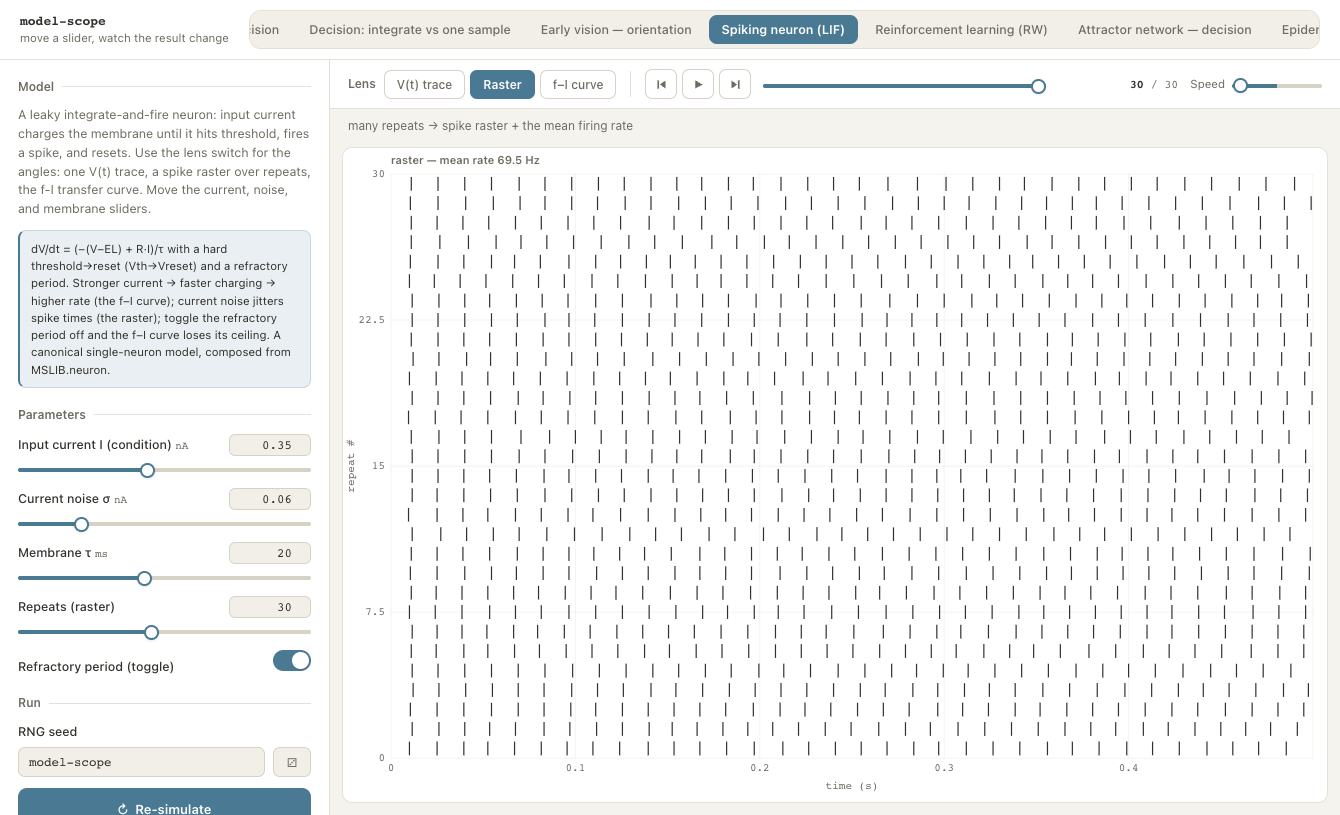
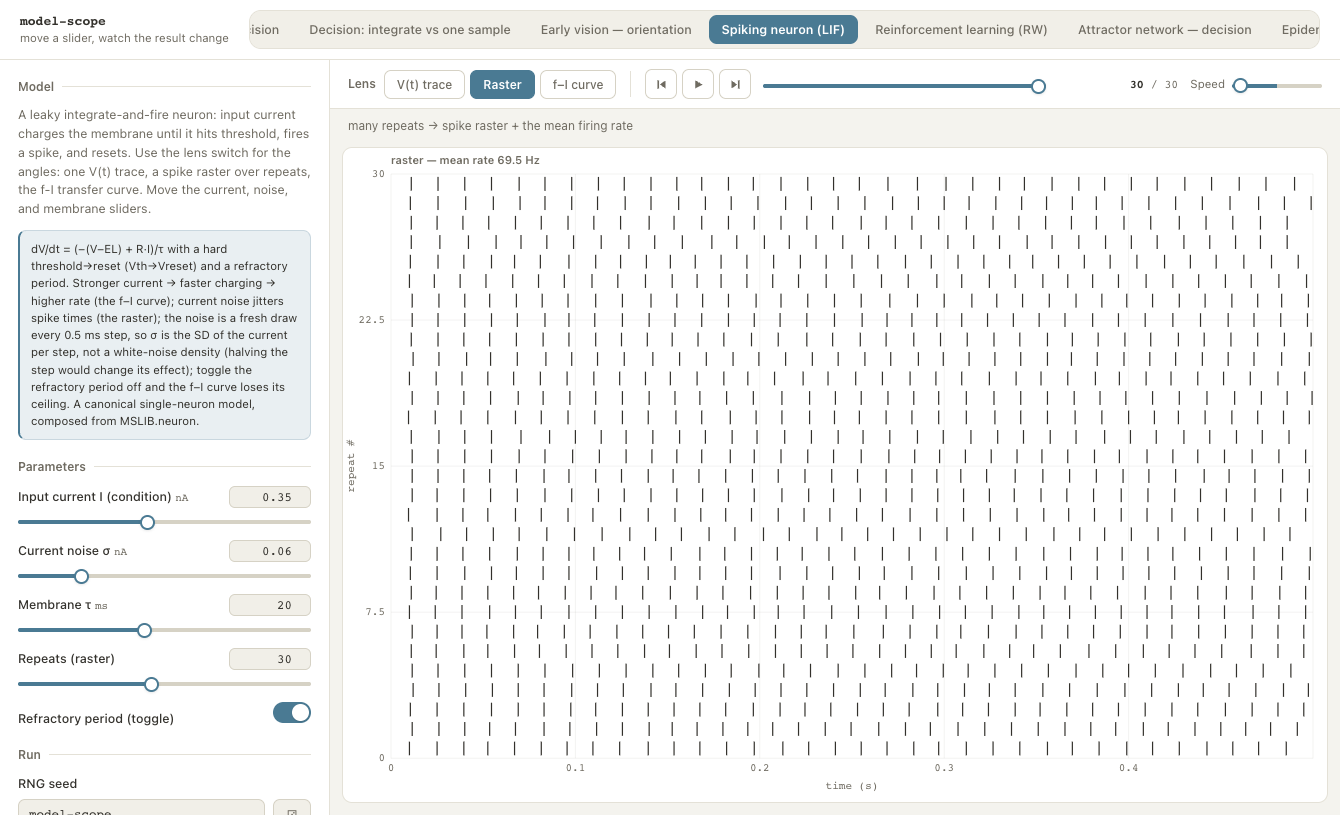
fix(examples): eight statements and one drawing that contradict the code
Round 1 review (R1-4, Neon N1-N8). Text only, except the attention map:
- attractor: dark = slow near a fixed point (the saddle is the darkest point)
- POMDP: Compare sweeps the penalty; worse listening does not widen the
  listen region (92% -> 86% of beliefs, a 0.85 -> 0.55, at defaults)
- causal: the visual-bias curve is N-shaped only when sigma_V ~ sigma_A
  (expected bias at defaults is monotone, 40k-draw Monte Carlo)
- compare: the single-sample frontier rises with T, it is not flat
- retina: DoG sums to ~0 only near surround 1; the RMS sweep shows coarse
  contrast removed (band-pass), not edge sharpening
- kuramoto: the marked K_c is the noise-free value
- SIR: Curve is the total over the line, not a well-mixed population
- LIF: f-I curve is noise-free; noise is drawn per 0.5 ms step
- attention: query i is now drawn in row i, matching the y ticks (it was
  drawn upside down); simulate() unchanged

Draw baseline re-recorded with --write-draw: exactly 8 streams changed
(causal v0/v3 end, compare v0, retina compare/v0, attention structure/v0);
schema and the 183 simulate digests are unchanged. Gallery PNGs regenerated
with tests/shots.mjs. Docs: README, template README, levels.md, tests/README
(baseline draws are default-parameters only, R1-2), CHANGELOG.

Changed region(s): [[0.0, 0.3681, 0.2448, 1.0]]

diff --git a/skills/model-scope/assets/template/examples.js b/skills/model-scope/assets/template/examples.js
@@ -211,7 +211,7 @@
         {key:'lik',     name:'Hypothesis likelihoods', about:'How well does ONE common cause explain the pair vs TWO separate causes? Compute p(x|C=1) and p(x|C=2).'},
         {key:'postC',   name:'Causal posterior',       about:'Bayes with the prior p_common gives p(C=1|x) — the belief the senses share a cause.'},
         {key:'branch',  name:'Branch estimates',       about:'Fused estimate (assume common) vs segregated estimates (assume separate), each reliability-weighted with the prior.'},
-        {key:'combine', name:'Combine',                about:'Blend the branches by p(C=1) (or Select / Match). The N-shaped bias vs disparity is the signature.'},
+        {key:'combine', name:'Combine',                about:'Blend the branches by p(C=1) (or Select / Match). The bias vs disparity is N-shaped (fusion, then release) when the senses are comparably reliable; with σᵥ ≪ σₐ vision barely moves.'},
       ],
       views:[
         { title:'Process pipeline', draw:(g,d,ui)=> g.flow(ui.stages, ui.stage) },
@@ -235,7 +235,7 @@
         }},
         { title:'Estimates & bias', draw:(g,d,ui)=>{ const T=TH();
           if(ui.stage>=4){ let mn=0,mx=0; for(const b of d.biasV){ mn=Math.min(mn,b[1]); mx=Math.max(mx,b[1]); } const pad=(mx-mn)*0.15||1;
-            g.frame({x:[-20,20],y:[mn-pad,mx+pad],xlabel:'disparity sᵥ−sₐ',ylabel:'visual bias',title:'N-shaped bias (ventriloquism)'});
+            g.frame({x:[-20,20],y:[mn-pad,mx+pad],xlabel:'disparity sᵥ−sₐ',ylabel:'visual bias',title:'visual bias vs disparity (N-shaped when σᵥ ≈ σₐ)'});
             g.hline(0,{color:T.faint,dash:[3,3]}); g.line(d.biasV,{color:T.pos,width:2});
           } else { g.frame({x:[-18,18],y:[0,1],xlabel:'spatial position',title:'estimates on the spatial axis'});
             g.vline(d.xv,{color:T.accent,label:'xᵥ'}); g.vline(d.xa,{color:T.neg,label:'xₐ'});
@@ -398,7 +398,7 @@
     compare: {
       id:'compare', name:'Decision: integrate vs one sample',
       blurb:'Two 2-alternative strategies with the SAME signal (drift A) and noise c — toggle between them: a drift-diffusion model INTEGRATES evidence to a bound ±z (variable time), or a single-sample observer takes ONE noisy reading over a fixed time T and reports its sign. Panel 1 overlays their speed-accuracy frontiers, panel 2 maps the chosen metric over the (drift, noise) plane, panel 3 compares accuracy, speed, and reward at the operating point, panel 4 shows the mechanism.',
-      note:'Same A, c — only the mechanism differs. DDM: accuracy 1/(1+e^(−2Az/c²)), mean decision time (z/A)·tanh(Az/c²) — raising the bound z buys accuracy but costs time, so reward rate is NON-monotonic in z. Single-sample: a FIXED accuracy Φ(A√T/c) and a flat tradeoff (it can only trade by observing longer). Integration dominates when the signal is strong; they converge at low noise. The toggle re-skins panels 2 and 3; the Metric selector swaps the surface in panel 2. (Bogacz et al. 2006; Gold & Shadlen 2007.)',
+      note:'Same A, c — only the mechanism differs. DDM: accuracy 1/(1+e^(−2Az/c²)), mean decision time (z/A)·tanh(Az/c²) — raising the bound z buys accuracy but costs time, so reward rate is NON-monotonic in z. Single-sample: accuracy Φ(A√T/c) is fixed once T is chosen; it has no bound to trade with and can only trade by observing longer (its curve sweeps T). Integration dominates when the signal is strong; they converge at low noise. The toggle re-skins panels 2 and 3; the Metric selector swaps the surface in panel 2. (Bogacz et al. 2006; Gold & Shadlen 2007.)',
       params:[
         {name:'A', label:'Drift A (signal)', min:0, max:3, step:0.01, default:1.0},
         {name:'c', label:'Noise c', min:0.2, max:2.5, step:0.01, default:1.0},
@@ -425,7 +425,7 @@
         return { accD, dtD, accS, dtS, rrD, rrS, satDDM, satSS, tMax, grid, NX, NY, Amin, Amax, cmin, cmax, gmin, gmax, metric:p.metric, metricName, useDDM:p.useDDM, A:p.A, c:p.c, z:p.z, T:p.T, Ter:p.Ter }; },
       views:[
         { title:'speed–accuracy: integrate-to-bound vs one sample', draw:(g,d)=>{ const T=TH();
-          g.frame({x:[0,d.tMax], y:[0.46,1.02], xlabel:'time to decision (s)', ylabel:'accuracy', title:'DDM trades time for accuracy along the bound; one sample is flat'});
+          g.frame({x:[0,d.tMax], y:[0.46,1.02], xlabel:'time to decision (s)', ylabel:'accuracy', title:'DDM trades time for accuracy along the bound; one sample only by observing longer'});
           g.hline(1,{color:'rgba(80,75,65,.28)',dash:[2,3],label:'ceiling'}); g.hline(0.5,{color:'rgba(80,75,65,.3)',dash:[4,3],label:'chance'});
           const clip=a=>a.map(q=>[q[0],Math.max(0.5,Math.min(1,q[1]))]);
           g.line(clip(d.satDDM),{color:T.accent,width:d.useDDM?2.6:1.3,dash:d.useDDM?null:[4,3]});
@@ -529,7 +529,7 @@
     lif: {
       id:'lif', name:'Spiking neuron (LIF)',
       blurb:'A leaky integrate-and-fire neuron: input current charges the membrane until it hits threshold, fires a spike, and resets. Use the lens switch for the angles: one V(t) trace, a spike raster over repeats, the f-I transfer curve. Move the current, noise, and membrane sliders.',
-      note:'dV/dt = (−(V−EL) + R·I)/τ with a hard threshold→reset (Vth→Vreset) and a refractory period. Stronger current → faster charging → higher rate (the f–I curve); current noise jitters spike times (the raster); toggle the refractory period off and the f–I curve loses its ceiling. A canonical single-neuron model, composed from MSLIB.neuron.',
+      note:'dV/dt = (−(V−EL) + R·I)/τ with a hard threshold→reset (Vth→Vreset) and a refractory period. Stronger current → faster charging → higher rate (the f–I curve); current noise jitters spike times (the raster); the noise is a fresh draw every 0.5 ms step, so σ is the SD of the current per step, not a white-noise density (halving the step would change its effect); toggle the refractory period off and the f–I curve loses its ceiling. A canonical single-neuron model, composed from MSLIB.neuron.',
       params:[
         {name:'I', label:'Input current I (condition)', min:0, max:0.8, step:0.005, default:0.35, unit:'nA'},
         {name:'sigma', label:'Current noise σ', min:0, max:0.3, step:0.005, default:0.06, unit:'nA'},
@@ -560,7 +560,7 @@
             g.frame({x:[0,d.T], y:[0,d.reps], xlabel:'time (s)', ylabel:'repeat #', title:`raster — mean rate ${d.rate.toFixed(1)} Hz`});
             g.raster(d.raster.slice(0,k),{color:T.ink,width:1.2});
           }} ] },
-        fI:{ label:'f–I curve', about:'firing rate vs input current — the neuron’s transfer function',
+        fI:{ label:'f–I curve', about:'firing rate vs input current without noise — the neuron’s deterministic transfer function',
           views:[ { title:'f–I transfer curve', draw:(g,d)=>{ const T=TH(), ymax=Math.max(10,...d.fI.map(q=>q[1]))*1.12;
             g.frame({x:[0,0.8], y:[0,ymax], xlabel:'input current I (nA)', ylabel:'firing rate (Hz)', title:'rate rises with current (rheobase, then ~linear)'});
             g.line(d.fI,{color:T.accent,width:2}); g.points(d.fI,{color:T.accent,r:2.4}); g.vline(d.I,{color:T.pos,dash:[5,4],label:'current I'});
@@ -680,8 +680,8 @@
             if(d.decT>=0 && d.t[k]>=d.decT) g.vline(d.decT,{color:T.ink,label:'decided, pool '+d.win});
             g.legend([{label:'pool 1',color:T.pos},{label:'pool 2',color:T.neg}],{corner:'tl'});
           }} ] },
-        landscape:{ label:'Landscape', about:'the (S₁,S₂) state plane — dark = slow = where the network settles',
-          views:[ { title:'state-space flow (dark = attractor) + this trajectory', draw:(g,d)=>{ const T=TH();
+        landscape:{ label:'Landscape', about:'the (S₁,S₂) state plane — dark = slow, near a fixed point (the two attractors and the saddle between them)',
+          views:[ { title:'state-space flow (dark = slow: attractors and the saddle) + this trajectory', draw:(g,d)=>{ const T=TH();
             const cmap=v=>Plot.RAMPS.night(v/(d.fmax||1));
             g.frame({cbar:true, x:[0,1], y:[0,1], xlabel:'S₁ (pool 1 gating)', ylabel:'S₂ (pool 2 gating)', title:'two basins = two choices; the path rolls into one'});
             g.heat(d.NG, d.NG, (i,j)=>d.flow[j*d.NG+i], cmap);
@@ -695,11 +695,11 @@
 
     /* ---- MACRO-level exemplar: a spatial SIR epidemic on a 1-D line of sites (reaction–diffusion).
        A different scale entirely (no neurons, no trials) — angles fit a population/field model:
-       Spread (space-time kymograph), Curve (well-mixed totals), Threshold (peak vs R0). */
+       Spread (space-time kymograph), Curve (totals over the line), Threshold (peak vs R0). */
     sir: {
       id:'sir', name:'Epidemic (spatial SIR)',
       blurb:'A population model at the MACRO scale: Susceptible, Infected, Recovered on a line of coupled sites. Infection spreads locally (diffusion) and recovers at rate γ. Use the lens switch for the angles: Spread (the epidemic as a space-time map), Curve (the classic S/I/R totals), Threshold (how the peak depends on R0). Move R0, γ, and spread.',
-      note:'Per site: dS=−βS·Ĩ, dI=βS·Ĩ−γI, dR=γI, where Ĩ = I + D·(neighbours−I) couples sites (a discrete diffusion); β = R0·γ. Below the epidemic THRESHOLD R0=1 the outbreak fizzles; above it, a travelling wave sweeps the line (the Spread map) and the well-mixed curve shows the familiar infected peak. The Threshold lens traces peak prevalence vs R0 — flat then rising sharply past 1. Same harness, angles chosen for a field/population model.',
+      note:'Per site: dS=−βS·Ĩ, dI=βS·Ĩ−γI, dR=γI, where Ĩ = I + D·(neighbours−I) couples sites (a discrete diffusion); β = R0·γ. Below the epidemic THRESHOLD R0=1 the outbreak fizzles; above it, a travelling wave sweeps the line (the Spread map) and the Curve lens sums S / I / R over the whole line: a lower peak than one well-mixed population, because infection travels as a wave. The Threshold lens traces peak prevalence vs R0 — flat then rising sharply past 1. Same harness, angles chosen for a field/population model.',
       params:[
         {name:'R0', label:'Basic reproduction number R₀ (condition)', min:0, max:4, step:0.05, default:2.5},
         {name:'gamma', label:'Recovery rate γ', min:0.05, max:0.5, step:0.01, default:0.12, unit:'/day'},
@@ -724,12 +724,12 @@
             g.frame({cbar:true, x:[0,d.N], y:[0,d.T], xlabel:'site (space)', ylabel:'time (days)', title:'where & when infection peaks (R₀='+d.R0.toFixed(2)+')'});
             g.heat(d.N, d.nF, (i,j)=> d.kymo[j][i], cmap, {smooth:false});
             g.colorbar(0, d.iMax, cmap, {ticks:[{v:0,label:'0'},{v:d.iMax,label:d.iMax.toFixed(2)}], label:'infected'}); }} ] },
-        curve:{ label:'Curve', about:'the well-mixed S / I / R totals — the classic epidemic curve',
+        curve:{ label:'Curve', about:'S / I / R summed over the line of sites — a lower peak than the well-mixed one in Threshold',
           views:[ { title:'population fractions S, I, R over time', draw:(g,d)=>{ const T=TH(), tE=d.times[d.nF-1]||1;
             g.frame({x:[0,tE], y:[0,1.02], xlabel:'time (days)', ylabel:'fraction of population', title:'peak infected = '+(d.peakI*100).toFixed(0)+'% (R₀='+d.R0.toFixed(2)+')'});
             const mk=a=>a.map((v,i)=>[d.times[i],v]); g.line(mk(d.totS),{color:T.accent,width:2}); g.line(mk(d.totI),{color:T.neg,width:2.4}); g.line(mk(d.totR),{color:T.pos,width:2});
             g.legend([{label:'S susceptible',color:T.accent},{label:'I infected',color:T.neg},{label:'R recovered',color:T.pos}],{corner:'tr'}); }} ] },
-        threshold:{ label:'Threshold', about:'peak prevalence vs R₀ — flat below 1, rising sharply above',
+        threshold:{ label:'Threshold', about:'peak prevalence vs R₀ for one well-mixed population (no space) — flat below 1, rising sharply above',
           views:[ { title:'epidemic threshold: peak infected vs R₀', draw:(g,d)=>{ const T=TH(), ymax=Math.max(0.05,...d.sweep.map(q=>q[1]))*1.12;
             g.frame({x:[0,4], y:[0,ymax], xlabel:'basic reproduction number R₀', ylabel:'peak infected fraction', title:'no outbreak below R₀ = 1; epidemic above'});
             g.vline(1,{color:'#7a5a93',dash:[5,4],label:'threshold R₀=1'}); g.line(d.sweep,{color:T.warn,width:2.2});
@@ -807,7 +807,7 @@
     kuramoto: {
       id:'kuramoto', name:'Kuramoto oscillators (sync)',
       blurb:'N phase oscillators, each with its own natural frequency, all-to-all coupled with strength K. Below a critical coupling they drift incoherently; above it they spontaneously synchronise. Use the lens switch for the angles — structure first: Structure (the frequency spread and the coupling), Dynamics (the phases racing around a circle), Sync (the order parameter r as a function of K — the synchronization transition).',
-      note:'Mean-field Kuramoto: dθ_i/dt = ω_i + K·r·sin(ψ − θ_i), where the order parameter r·e^{iψ} = (1/N)Σ e^{iθ_j} measures global synchrony (r=0 incoherent, r=1 locked). Synchrony emerges above a critical coupling K_c ≈ 2/(π·g(0)) set by the spread of natural frequencies g (for a Gaussian spread σ, K_c ≈ 1.6σ). Raise K past K_c, or narrow the frequency spread, and r jumps up. Composed from MSLIB.osc.',
+      note:'Mean-field Kuramoto: dθ_i/dt = ω_i + K·r·sin(ψ − θ_i), where the order parameter r·e^{iψ} = (1/N)Σ e^{iθ_j} measures global synchrony (r=0 incoherent, r=1 locked). Synchrony emerges above a critical coupling K_c ≈ 2/(π·g(0)) set by the spread of natural frequencies g (for a Gaussian spread σ, K_c ≈ 1.6σ). That K_c is the noise-free value; phase noise raises the real threshold (with D = noise²/2, 2/K_c = ∫ D/(D²+ω²) g(ω) dω), so at high noise and a narrow spread r rises well past the marked K_c. Raise K past K_c, or narrow the frequency spread, and r jumps up. Composed from MSLIB.osc.',
       params:[
         {name:'K', label:'Coupling K', min:0, max:8, step:0.05, default:3, unit:''},
         {name:'spread', label:'Natural-frequency spread σ', min:0.2, max:3, step:0.05, default:1},
@@ -987,7 +987,7 @@
     retina: {
       id:'retina', name:'Retina → V1 (layered vision)',
       blurb:'A layered early-vision model on an image: photoreceptors → a center-surround stage (bipolar + horizontal cells, a difference-of-Gaussians receptive field) → ganglion edge signals → V1 simple cells (oriented Gabor) → V1 complex cells (orientation energy). Use the lens switch for the angles — architecture first: Architecture (the layer stack and its receptive fields), Layers (the image transformed stage by stage), RF (the receptive-field profiles and V1 tuning), Compare (how the horizontal-cell surround changes the output).',
-      note:'The center-surround stage is a difference-of-Gaussians RF: an excitatory center minus an inhibitory surround supplied by horizontal cells. Being zero-mean, it suppresses uniform regions and enhances edges/contrast (lateral inhibition). V1 simple cells are oriented Gabors on that edge signal; complex cells pool the quadrature pair (even² + odd²) for phase-invariant orientation energy. Turn the surround up and flat regions vanish while edges sharpen. Composed from MSLIB.vision (DoG) + the oriented-filter helpers.',
+      note:'The center-surround stage is a difference-of-Gaussians RF: an excitatory center minus an inhibitory surround supplied by horizontal cells. With the surround weight near 1 it sums to about zero, so it suppresses uniform regions and passes edges (lateral inhibition, band-pass); below 1 it keeps part of the mean. V1 simple cells are oriented Gabors on that edge signal; complex cells pool the quadrature pair (even² + odd²) for phase-invariant orientation energy. Turn the surround up and coarse (low spatial frequency) contrast is removed while fine detail passes. Composed from MSLIB.vision (DoG) + the oriented-filter helpers.',
       params:[
         {name:'ori', label:'Orientation θ (condition)', min:0, max:179, step:1, default:60, unit:'°'},
         {name:'sf', label:'Spatial frequency', min:1, max:7, step:0.1, default:3, unit:'cyc/img'},
@@ -1039,8 +1039,8 @@
               g.line(tun,{color:T.accent,width:2}); g.points(d.tuning,{color:T.accent,r:3.5}); g.vline(d.ori,{color:T.pos,dash:[4,3],label:'stimulus θ'}); }},
           ] },
         compare:{ label:'Compare', about:'how the horizontal-cell surround changes the output',
-          views:[ { title:'edge enhancement vs surround strength', draw:(g,d)=>{ const T=TH(), ymax=Math.max(...d.sweep.map(q=>q[1]))*1.15;
-            g.frame({x:[0,1.4], y:[0,ymax], xlabel:'horizontal-cell surround strength', ylabel:'output contrast (RMS)', title:'a stronger surround removes flat regions and sharpens edges (band-pass)'});
+          views:[ { title:'output contrast vs surround strength', draw:(g,d)=>{ const T=TH(), ymax=Math.max(...d.sweep.map(q=>q[1]))*1.15;
+            g.frame({x:[0,1.4], y:[0,ymax], xlabel:'horizontal-cell surround strength', ylabel:'output contrast (RMS)', title:'a stronger surround subtracts more; coarse gratings lose the most (band-pass)'});
             g.line(d.sweep,{color:T.accent,width:2.4}); g.points(d.sweep,{color:T.accent,r:3});
             g.marker(d.surround, Plot.nearestY(d.sweep, d.surround), {color:T.neg,stroke:'#fff',r:5,label:'now'}); }} ] },
       },
@@ -1124,7 +1124,7 @@
         structure:{ label:'Structure', about:'the attention matrix — which token (row) attends to which (col)',
           views:[ { title:'attention matrix: query i (row) attends to key j (column)', draw:(g,d)=>{ const T=TH(), N=d.N, amax=Math.max(...d.attn.flat());
             g.frame({cbar:true, x:[0,N], y:[0,N], xticks:1, yticks:1, xlabel:'key token j', ylabel:'query token i', title:'dark cells = strong attention; same-type / nearby tokens form blocks'});
-            g.heat(N, N, (i,j)=>d.attn[N-1-j][i], v=>Plot.RAMPS.blue(v/amax), {smooth:false});
+            g.heat(N, N, (i,j)=>d.attn[j][i], v=>Plot.RAMPS.blue(v/amax), {smooth:false});   // row j of the map = query j, matching the y ticks (heat puts j=0 at the bottom)
             g.colorbar(0, amax, v=>Plot.RAMPS.blue(v/amax), {label:'attention'});
           }} ] },
         mix:{ label:'Mix', about:'how one token’s output is the attention-weighted mix of the values',
@@ -1150,8 +1150,8 @@
        STRUCTURE FIRST. Angles: Structure, Policy (value function + regions), Episode, Compare. */
     pomdp: {
       id:'pomdp', name:'POMDP — the tiger (value iteration)',
-      blurb:'The classic Tiger POMDP. A tiger is behind one of two doors; you cannot see which. You may LISTEN (a noisy roar, small cost) to sharpen your belief, or OPEN a door — the safe one for a reward, the tiger one for a big penalty. Solving it is value iteration over the BELIEF (the probability the tiger is on the left): the optimal policy listens while uncertain and opens once confident. Use the lens switch for the angles — structure first: Structure (the problem), Policy (the value function and when to listen vs open), Episode (belief updating until you act), Compare (how listening accuracy reshapes the strategy).',
-      note:'Belief b = P(tiger left). Reward: open the safe door +10, the tiger door −(penalty); listening costs 1 and returns a roar from the true side with accuracy a, updating b by Bayes. Value iteration on a belief grid: V(b)=max over actions of Q; Q(listen)=−1+γ·E_obs V(b′); Q(open)=immediate reward + γ·V(½) (the game resets). The value function is convex and piecewise-linear; the policy splits into open-left / listen / open-right regions. Less accurate listening WIDENS the listen region — you must gather more evidence before acting. This is POMDP control (beyond the belief-tracking model). Composed inline.',
+      blurb:'The classic Tiger POMDP. A tiger is behind one of two doors; you cannot see which. You may LISTEN (a noisy roar, small cost) to sharpen your belief, or OPEN a door — the safe one for a reward, the tiger one for a big penalty. Solving it is value iteration over the BELIEF (the probability the tiger is on the left): the optimal policy listens while uncertain and opens once confident. Use the lens switch for the angles — structure first: Structure (the problem), Policy (the value function and when to listen vs open), Episode (belief updating until you act), Compare (how the tiger penalty reshapes the strategy).',
+      note:'Belief b = P(tiger left). Reward: open the safe door +10, the tiger door −(penalty); listening costs 1 and returns a roar from the true side with accuracy a, updating b by Bayes. Value iteration on a belief grid: V(b)=max over actions of Q; Q(listen)=−1+γ·E_obs V(b′); Q(open)=immediate reward + γ·V(½) (the game resets). The value function is convex and piecewise-linear; the policy splits into open-left / listen / open-right regions. A bigger tiger penalty widens the listen region (Compare). Less accurate listening makes each listen worth less, so it does not simply widen the region: at the defaults it shrinks from 92% of beliefs (a = 0.85) to 86% (a = 0.55). This is POMDP control (beyond the belief-tracking model). Composed inline.',
       params:[
         {name:'obsAcc', label:'Listening accuracy', min:0.55, max:0.98, step:0.01, default:0.85},
         {name:'rTiger', label:'Tiger penalty', min:20, max:200, step:5, default:100},

diff --git a/CHANGELOG.md b/CHANGELOG.md
@@ -25,7 +25,10 @@ golden baseline (`tests/baseline/v1.21.1.json`, captured from v1.21.1) passes on
 - The page itself: missing scripts, external hosts or network APIs fail; the bundle is checked when
   `bundle.mjs` is present.
 - `--snapshot f.json` / `--against f.json`: an opt-in regression lock for a researcher's own models.
-- Seeded-error probe: the gate alone now catches 45 of 48 (before: 7 of 46).
+- Seeded-error probe: the gate alone now catches 49 of 52 (before: 7 of 46).
+- Every exported `MSLIB` block has at least one closed-form check, including the ones no shipped
+  example uses (Kalman update, Izhikevich step, `qUpdate`, `choose`, `besselI1`, `fisherInfo`,
+  central tendency, the efficient-coding bias curve, the number-game helpers, and others).
 
 ### Template
 
@@ -59,6 +62,23 @@ golden baseline (`tests/baseline/v1.21.1.json`, captured from v1.21.1) passes on
 - Attractor network: the Landscape lens is a flow-speed map, not an energy landscape.
 - Modelbook: `centralTendency` takes four arguments; Wilson–Cowan uses `MSLIB.osc.wilsonCowanStep`;
   the Wong–Wang defaults are the paper's Appendix set, not its main-text set.
+- Attractor network: the darkest point of the flow-speed map can be the saddle, so it reads
+  "dark = slow, near a fixed point", not "dark = attractor".
+- POMDP: Compare sweeps the tiger penalty, not listening accuracy; less accurate listening does not
+  widen the listen region (at defaults it shrinks from 92% to 86% of beliefs between a = 0.85 and 0.55).
+- Causal inference: the bias curve is labelled visual bias vs disparity; it is N-shaped only when the
+  two senses are comparably reliable (at the defaults, sigma_V = 2 and sigma_A = 8, the expected visual
+  bias is monotone and small).
+- Integrate vs one sample: the single-sample frontier is not flat; it trades only by observing longer.
+- Retina: the DoG kernel is zero-sum only near surround weight 1; a stronger surround removes coarse
+  contrast most (band-pass), it does not sharpen edges in the RMS sweep.
+- Kuramoto: the marked K_c is the noise-free value; phase noise raises the real threshold.
+- Spatial SIR: the Curve lens shows totals over the line of sites, not a well-mixed population.
+- LIF: the f-I curve is noise-free; the current noise is drawn per 0.5 ms step.
+- Self-attention: the attention map put query 0 in the top row while the y ticks count up from the
+  bottom; it now draws query i in row i (a drawing fix; `simulate()` is unchanged).
+- These text and drawing fixes changed eight draw digests (causal, compare, retina, attention),
+  re-recorded in the same commit; schema and `simulate()` digests are unchanged.
 - Template README lists all 21 models (it listed 18); `ui` has eight fields (docs said three).
 
 ### Plugin conventions
@@ -97,8 +117,12 @@ Not done in this release, on purpose:
   the agent; a plugin icon.
 - Running the evals (it spends model calls on the owner's account).
 - Checking the Wong–Wang noise scaling and the other model constants against primary sources. The
-  library drives the noise so its stationary SD equals σ; whether the paper's equation gives σ/√2
-  could not be read from the online versions.
+  library drives the noise so its stationary SD equals σ, which matches the paper's text
+  ("σ²_noise is the variance of the noise", jneurosci.org/content/26/4/1314); the equation itself
+  is an image there, and a literal reading of the commonly reproduced form gives σ/√2.
+- LIF current noise scaled per step rather than as a white-noise density (σ/√dt); POMDP value
+  iteration truncated at 200 and 90 sweeps, which is not converged at γ = 0.99; draw digests only at
+  default parameters. Each fix changes `simulate()` output or needs a new baseline.
 
 Not verified for this release:
 

diff --git a/README.md b/README.md
@@ -82,7 +82,7 @@ process-mode stepper, and the **lens switch**):
 | **Drift-diffusion decision** | decision-making | lens switch | one update (drift plus noise to new evidence); one trial walking to a bound; the RT histogram building up |
 | **Decision: integrate vs one sample** | comparison | sliders + toggle | toggle two models; a speed-accuracy overlay; a metric heatmap over a (drift, noise) grid; accuracy / speed / reward bars; the mechanism |
 | **Early vision (orientation)** | sensory / image | lens switch | the filter-bank architecture (oriented Gabor receptive fields), structure first; the input grating; the channels re-representing it; the orientation tuning and decoded angle |
-| **Attractor network** | network | lens switch | one pool's recurrent input; the pools racing (winner-take-all); the (S1, S2) flow-speed map (dark = slow, where the network settles) and the trajectory |
+| **Attractor network** | network | lens switch | one pool's recurrent input; the pools racing (winner-take-all); the (S1, S2) flow-speed map (dark = slow, near a fixed point: the two attractors and the saddle between them) and the trajectory |
 | **Epidemic (spatial SIR)** | macro / population | lens switch | a space-time kymograph of a travelling infection wave; the S/I/R curves; peak prevalence vs R0 (the epidemic threshold) |
 | **Spiking neuron (LIF)** | single-neuron biophysics | lens switch | a V(t) trace integrating to threshold; a spike raster over repeats; the f-I transfer curve (with a refractory toggle) |
 | **Reinforcement learning (RW)** | learning | lens switch | one Rescorla-Wagner update; the value learning curve; curves across learning rates |
@@ -392,8 +392,9 @@ mixtures), and Brian2 / *Neuronal Dynamics* / Neuromatch (canonical neuron model
   to the science — for example the drift-diffusion error rate and mean decision time against the
   closed forms `1/(1 + e^{2Az/c²})` and `(z/A)·tanh(Az/c²)` with the discretisation correction,
   mass conservation in the SIR model, and the Bayes-filter trajectory against an independent
-  recursion. It then checks the `mslib.js` building blocks. It must pass before a model is "done".
-  A deliberate-error probe in `tests/` measures how much the gate catches: 45 of 48 seeded
+  recursion. It then checks every exported `mslib.js` building block against a closed form or a
+  known value, including the ones no shipped example uses. It must pass before a model is "done".
+  A deliberate-error probe in `tests/` measures how much the gate catches: 49 of 52 seeded
   errors on its own, two more by the golden baseline of the shipped examples, and the last (a
   toolbox that throws on load) by the browser smoke test.
 - **GUI QC pipeline.** Beyond the static gate, every build walks

diff --git a/tests/README.md b/tests/README.md
@@ -11,8 +11,8 @@ node tests/run.mjs --browser    # ... plus the headless-Chrome smoke test
 
 | File | What it proves | Needs |
 |---|---|---|
-| `baseline.mjs` | The 21 shipped examples behave as they did at v1.21.1: same parameter ids, ranges and defaults; the same numbers out of `simulate()` at defaults and at every control's min and max; the same drawing through the real `plot.js`. | Node |
-| `mutations.mjs` | The gate bites: 48 deliberate wrong-math or broken-app edits, each of which some layer must catch. | Node |
+| `baseline.mjs` | The 21 shipped examples behave as they did at v1.21.1: same parameter ids, ranges and defaults; the same numbers out of `simulate()` at defaults and at every control's min and max; the same drawing through the real `plot.js` (draws are recorded at default parameters only, at the start and end of the playhead; a drawing error that only shows away from the defaults is not caught here). | Node |
+| `mutations.mjs` | The gate bites: 52 deliberate wrong-math or broken-app edits, each of which some layer must catch. | Node |
 | `bare-app.mjs` | The template works without its examples: with none it fails clearly (gate) and shows an empty state (page); the commented skeleton model and check in `engine.js` / `engine.checks.mjs` are real code; deleting one example leaves the gate green. | Node (+ Playwright with `--pw`) |
 | `docs-check.mjs` | The docs say what the code is: model and family counts equal the registry and the modelbook INDEX; every MSLIB block and function named exists; every path named in the skill, command and agent files exists; vendored files use `${CLAUDE_PLUGIN_ROOT}` and the literal `model-scope:` only in the two command names; description lengths; one plugin version field. | Node |
 | `smoke.mjs` | The page works in a real browser from `file://`: every model and lens paints, no console or page error, no network request, plus accessibility (axe), phone width, and toolbox behaviour. | Playwright |
@@ -50,7 +50,7 @@ Rules:
 
 ## The mutation probe
 
-`node tests/mutations.mjs` copies the template 48 times, applies one wrong edit to each copy
+`node tests/mutations.mjs` copies the template 52 times, applies one wrong edit to each copy
 (a reliability weight inverted, a drift 10% low, a leak term removed, a default changed, a script
 that no longer parses, a bundler that stops escaping a closing script tag, ...) and runs the layers in order: the gate, then the baseline, then (with
 `--pw <dir>`) the browser smoke. Thresholds live at the top of the file. Raise them when the gate

diff --git a/skills/model-scope/references/levels.md b/skills/model-scope/references/levels.md
@@ -31,7 +31,7 @@ the model's behaviour, and its dependence on parameters and model choice, legibl
 
 - **drift-diffusion** — one trial (evidence to a bound) and the RT / accuracy histogram over many trials.
 - **early-vision** (image/CNN, structure first) — the filter-bank **architecture** (the oriented Gabor channels and their receptive fields), then the input image, the channels re-representing it, and the decoded readout.
-- **attractor** (network) — the recurrent input to one pool, the pools racing to a winner, and the (S₁,S₂) flow-speed map (dark = slow, where it settles).
+- **attractor** (network) — the recurrent input to one pool, the pools racing to a winner, and the (S₁,S₂) flow-speed map (dark = slow, near a fixed point: the attractors and the saddle).
 - **sir** (macro / field) — a space-time kymograph of a spreading epidemic, the S/I/R curves, and peak-vs-R₀.
 - **compare** — a model toggle (integrate vs one sample), a metric heatmap over a parameter grid, and metric bars: the comparison idiom itself.
 

diff --git a/skills/model-scope/assets/template/README.md b/skills/model-scope/assets/template/README.md
@@ -14,7 +14,7 @@ that fit its class; the payoff is comparing what changes across parameters and m
   speed-accuracy overlay, a metric heatmap over a (drift, noise) grid, and metric bars.
 - **Attractor network — decision** *(lens switch)* — structure first: the circuit wiring and E/I,
   then one pool's input, winner-take-all dynamics, and the (S1, S2) flow-speed map
-  (dark = slow, where the network settles).
+  (dark = slow, near a fixed point: the two attractors and the saddle between them).
 - **Epidemic (spatial SIR)** *(lens switch)* — a macro model: a space-time kymograph, the S/I/R
   curves, and peak prevalence vs R0 (the epidemic threshold).
 - **Early vision — orientation** *(lens switch)* — an image-input model: the grating image, oriented
